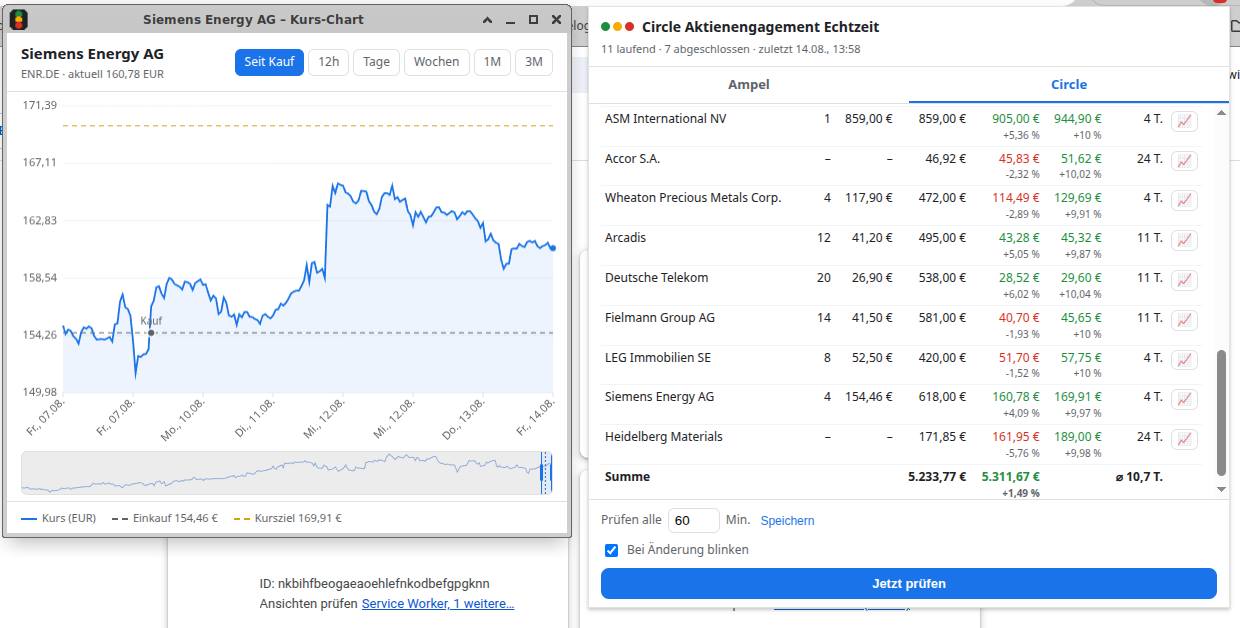
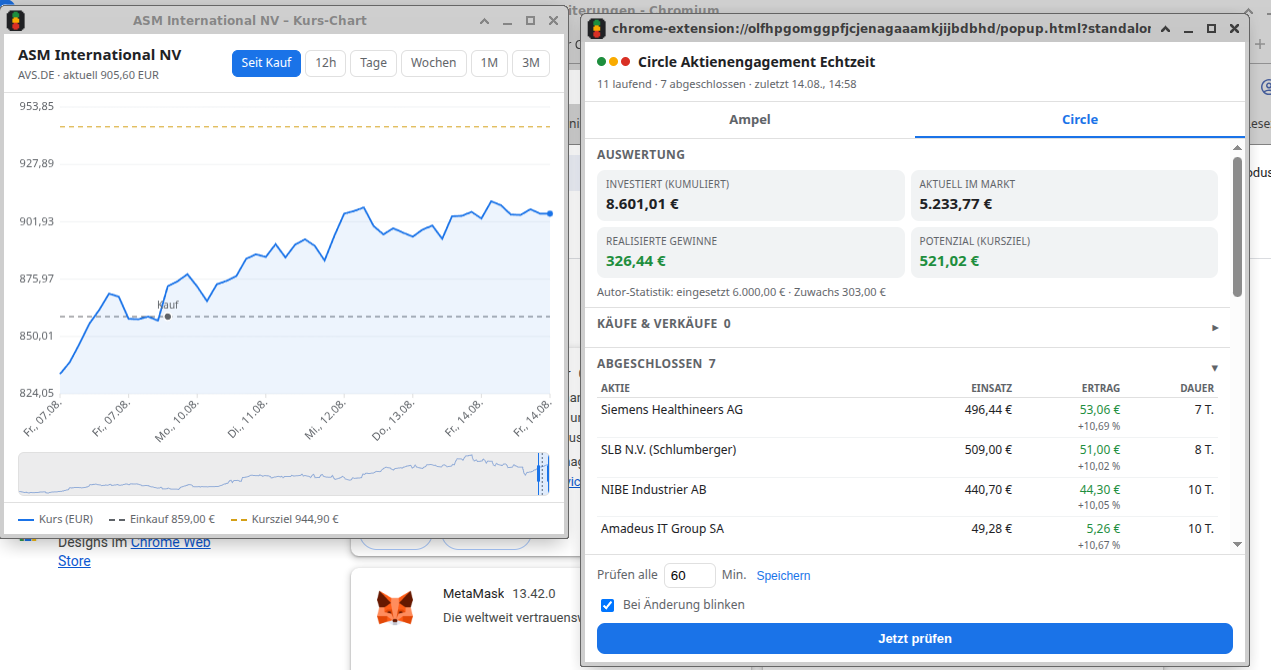
v0.6.1: Hängengebliebene Symbol-Fehlversuche lösen (Accor ohne Kurs)
Das Accor-Modul trägt nur eine WKN (860206) — Yahoo kennt keine WKNs, aber
die Namenssuche findet ACR.HA (46,57 EUR, plausibel zum Kursziel 51,62).
Beim ersten großen Abruf wurde die Suche vermutlich gedrosselt und der
Fehlversuch klebte 24 h im Cache -> Spalte blieb auf "-".

- SYMBOL_RESOLVE_VERSION 2 -> 3: alle Einträge werden beim nächsten Öffnen
  einmalig neu aufgelöst (löst den festgefahrenen Accor-Eintrag sofort).
- Fehlversuchs-Wiederholung 24 h -> 1 h.
- Abstand zwischen Yahoo-Abrufen 120 -> 250 ms (gegen 429-Drosselung).

Changed region(s): [[0.0, 0.0, 1.0, 1.0], [0.0613, 0.6656, 0.0919, 0.6959]]

diff --git a/dist/chrome/background.js b/dist/chrome/background.js
@@ -456,11 +456,15 @@ async function pollCircle(allowBlink = false) {
 // (ISIN > WKN > Name, Ergebnis dauerhaft gecacht), den Kurs holen (5-Min-Cache)
 // und nach Euro umrechnen. Alles defensiv — ohne Kurs zeigt das Popup "–".
 const QUOTE_TTL_MS = 5 * 60 * 1000;        // Kurse kurz cachen (Popup-Öffnungen)
-const SYMBOL_RETRY_MS = 24 * 60 * 60 * 1000; // gescheiterte Auflösung 1x/Tag neu
-const QUOTE_FETCH_DELAY_MS = 120;          // höflicher Abstand zwischen Abrufen
+// Gescheiterte Auflösungen nach 1 h erneut versuchen: ein Yahoo-Schluckauf
+// (Drosselung beim ersten großen Abruf) soll nicht einen ganzen Tag kleben
+// (live gesehen: Accor blieb dadurch auf "–", obwohl die Namenssuche geht).
+const SYMBOL_RETRY_MS = 60 * 60 * 1000;
+const QUOTE_FETCH_DELAY_MS = 250;          // höflicher Abstand (gegen 429-Drosselung)
 // Bei Änderungen an der Auflösungslogik hochzählen -> alte Cache-Einträge
-// werden neu aufgelöst (v2: Plausibilitätsprüfung gegen Kursziel/EK).
-const SYMBOL_RESOLVE_VERSION = 2;
+// werden neu aufgelöst (v2: Plausibilitätsprüfung; v3: hängengebliebene
+// Fehlversuche einmalig lösen).
+const SYMBOL_RESOLVE_VERSION = 3;
 
 async function resolveYahooSymbol(query) {
   const found = await fetchYahooSearch(query);

diff --git a/dist/firefox/background.js b/dist/firefox/background.js
@@ -456,11 +456,15 @@ async function pollCircle(allowBlink = false) {
 // (ISIN > WKN > Name, Ergebnis dauerhaft gecacht), den Kurs holen (5-Min-Cache)
 // und nach Euro umrechnen. Alles defensiv — ohne Kurs zeigt das Popup "–".
 const QUOTE_TTL_MS = 5 * 60 * 1000;        // Kurse kurz cachen (Popup-Öffnungen)
-const SYMBOL_RETRY_MS = 24 * 60 * 60 * 1000; // gescheiterte Auflösung 1x/Tag neu
-const QUOTE_FETCH_DELAY_MS = 120;          // höflicher Abstand zwischen Abrufen
+// Gescheiterte Auflösungen nach 1 h erneut versuchen: ein Yahoo-Schluckauf
+// (Drosselung beim ersten großen Abruf) soll nicht einen ganzen Tag kleben
+// (live gesehen: Accor blieb dadurch auf "–", obwohl die Namenssuche geht).
+const SYMBOL_RETRY_MS = 60 * 60 * 1000;
+const QUOTE_FETCH_DELAY_MS = 250;          // höflicher Abstand (gegen 429-Drosselung)
 // Bei Änderungen an der Auflösungslogik hochzählen -> alte Cache-Einträge
-// werden neu aufgelöst (v2: Plausibilitätsprüfung gegen Kursziel/EK).
-const SYMBOL_RESOLVE_VERSION = 2;
+// werden neu aufgelöst (v2: Plausibilitätsprüfung; v3: hängengebliebene
+// Fehlversuche einmalig lösen).
+const SYMBOL_RESOLVE_VERSION = 3;
 
 async function resolveYahooSymbol(query) {
   const found = await fetchYahooSearch(query);

diff --git a/extension/background.js b/extension/background.js
@@ -456,11 +456,15 @@ async function pollCircle(allowBlink = false) {
 // (ISIN > WKN > Name, Ergebnis dauerhaft gecacht), den Kurs holen (5-Min-Cache)
 // und nach Euro umrechnen. Alles defensiv — ohne Kurs zeigt das Popup "–".
 const QUOTE_TTL_MS = 5 * 60 * 1000;        // Kurse kurz cachen (Popup-Öffnungen)
-const SYMBOL_RETRY_MS = 24 * 60 * 60 * 1000; // gescheiterte Auflösung 1x/Tag neu
-const QUOTE_FETCH_DELAY_MS = 120;          // höflicher Abstand zwischen Abrufen
+// Gescheiterte Auflösungen nach 1 h erneut versuchen: ein Yahoo-Schluckauf
+// (Drosselung beim ersten großen Abruf) soll nicht einen ganzen Tag kleben
+// (live gesehen: Accor blieb dadurch auf "–", obwohl die Namenssuche geht).
+const SYMBOL_RETRY_MS = 60 * 60 * 1000;
+const QUOTE_FETCH_DELAY_MS = 250;          // höflicher Abstand (gegen 429-Drosselung)
 // Bei Änderungen an der Auflösungslogik hochzählen -> alte Cache-Einträge
-// werden neu aufgelöst (v2: Plausibilitätsprüfung gegen Kursziel/EK).
-const SYMBOL_RESOLVE_VERSION = 2;
+// werden neu aufgelöst (v2: Plausibilitätsprüfung; v3: hängengebliebene
+// Fehlversuche einmalig lösen).
+const SYMBOL_RESOLVE_VERSION = 3;
 
 async function resolveYahooSymbol(query) {
   const found = await fetchYahooSearch(query);
